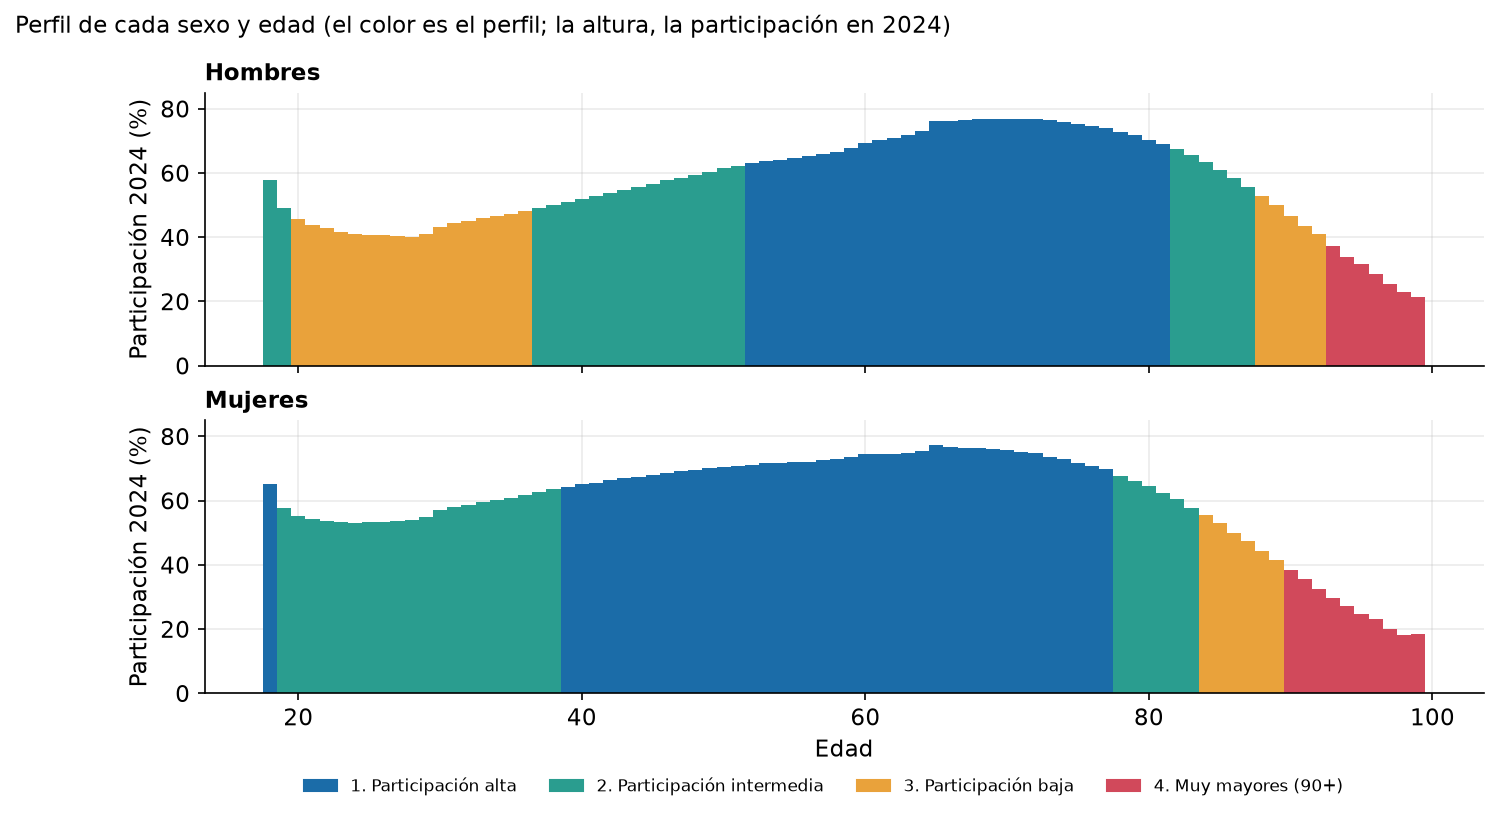
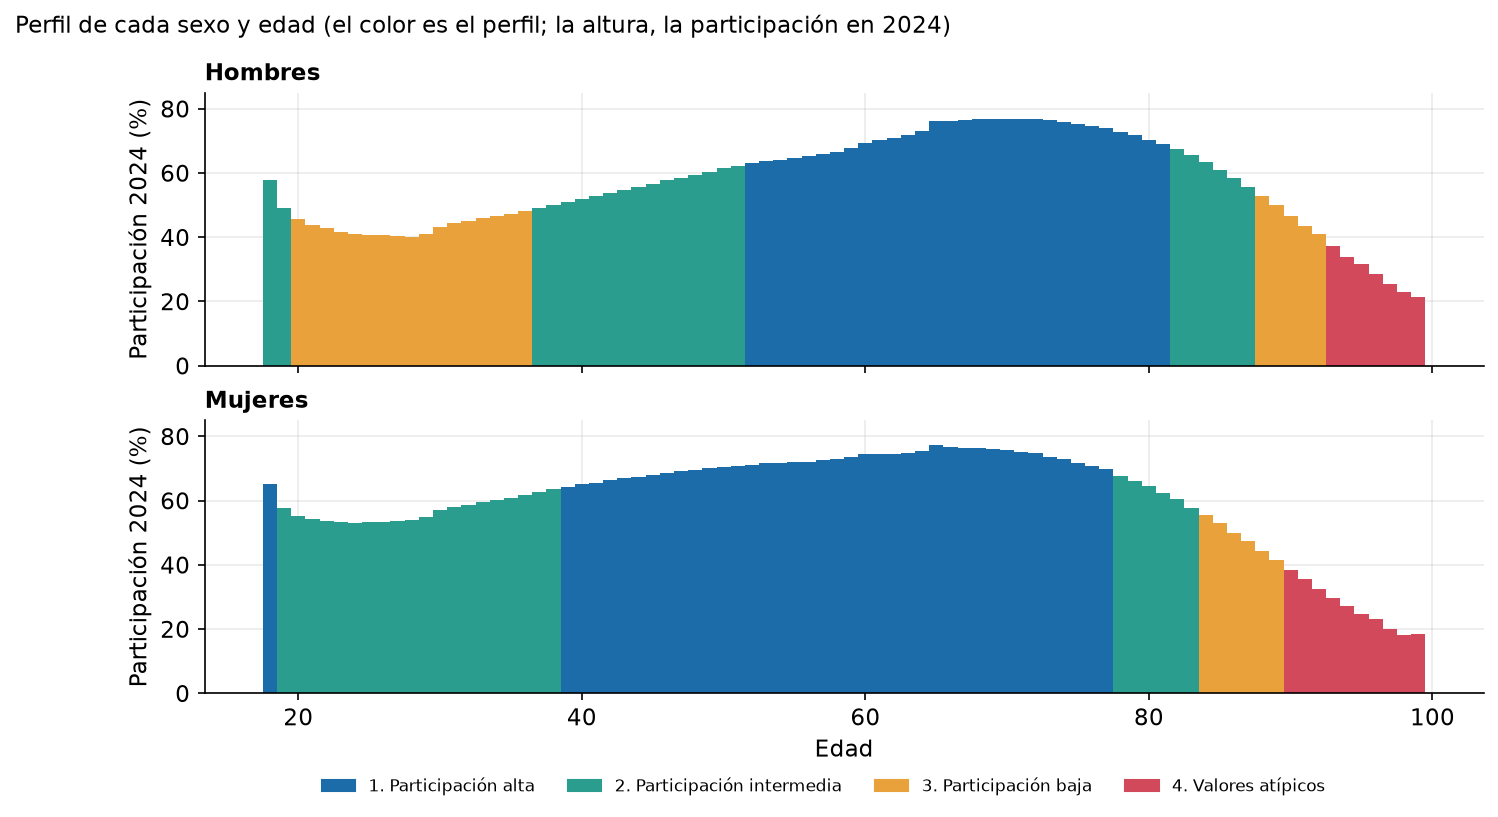
Renombra el perfil 4 como Valores atípicos en tablas, documentación y gráficas

Changed region(s): [[0.1842, 0.9486, 0.8905, 0.9792]]

diff --git a/scripts/20_figuras_perfiles.py b/scripts/20_figuras_perfiles.py
@@ -1,35 +1,43 @@
 """Figuras y tablas de resultados para reports/perfiles_sexo_edad/ (perfiles por sexo × edad)."""
 import shutil
+import sys
 import numpy as np, pandas as pd
 import matplotlib.pyplot as plt
 from config import PROC, TABLAS, GRAFICAS, RAIZ, ANIOS
 from estilo import PAL, plt as _p
 OUT = RAIZ / "reports/perfiles_sexo_edad"; OUT.mkdir(parents=True, exist_ok=True)
-NOM = {1: "1. Participación alta", 2: "2. Participación intermedia", 3: "3. Participación baja", 4: "4. Muy mayores (90+)"}
+NOM = {1: "1. Participación alta", 2: "2. Participación intermedia", 3: "3. Participación baja", 4: "4. Valores atípicos"}
 COL = {1: PAL[0], 2: PAL[2], 3: PAL[3], 4: PAL[1]}
 def guardar(fig, n): fig.savefig(OUT / n, dpi=150, bbox_inches="tight", facecolor="white"); plt.close(fig)
 
-asig = pd.read_csv(TABLAS / "perfiles_edad_sexo_k4_asignacion.csv")
-orden = asig.groupby("perfil")["2024"].mean().sort_values(ascending=False).index.tolist()
-asig["perfil_n"] = asig.perfil.map({p: i + 1 for i, p in enumerate(orden)})
-d = pd.read_parquet(PROC / "conteos_seccion_sexo_edad.parquet", columns=["AELEC", "SEXO", "EDAD", "LN", "SV", "NV", "NS"])
-for c in ("LN", "SV", "NV", "NS"): d[c] = d[c].astype("int64")
-nsel = d[(d.SEXO != 2) & d.EDAD.between(18, 99)].groupby("AELEC")[["NS", "LN"]].sum(); nsel = 100 * nsel.NS / nsel.LN
-d = d[(d.SEXO != 2) & d.EDAD.between(18, 99)].merge(asig[["SEXO", "EDAD", "perfil_n"]], on=["SEXO", "EDAD"])
-t = d.groupby(["perfil_n", "AELEC"])[["SV", "NV", "LN"]].sum()
-tray = (100 * t.SV / (t.SV + t.NV)).unstack("AELEC")[ANIOS].round(1)
-tam = (100 * d[d.AELEC == 2024].groupby("perfil_n").LN.sum() / d[d.AELEC == 2024].LN.sum()).round(1)
-tray["pct_lista_2024"] = tam; tray.to_csv(OUT / "trayectorias_perfiles.csv")
-# rangos de edad por perfil y sexo
-filas = []
-for p in range(1, 5):
-    for sx, ns in ((0, "hombres"), (1, "mujeres")):
-        e = sorted(asig[(asig.perfil_n == p) & (asig.SEXO == sx)].EDAD)
-        rg = ", ".join(f"{x[0]}-{x[-1]}" if x[0] != x[-1] else f"{x[0]}" for x in np.split(np.array(e), np.where(np.diff(e) > 1)[0] + 1)) if e else "-"
-        filas.append(dict(perfil=NOM[p], sexo=ns, edades=rg))
-pd.DataFrame(filas).to_csv(OUT / "composicion_perfiles.csv", index=False)
-asig.rename(columns={"perfil_n": "perfil_numero"}).drop(columns="perfil").to_csv(OUT / "asignacion_segmentos_sexo_edad.csv", index=False)
-print(tray); print(pd.DataFrame(filas).to_string(index=False)); print(nsel.round(2).to_dict())
+solo_perfiles = "--solo-perfiles" in sys.argv
+if solo_perfiles:
+    # Redibujar las figuras con las tablas publicadas, sin requerir el parquet local.
+    asig = pd.read_csv(OUT / "asignacion_segmentos_sexo_edad.csv").rename(columns={"perfil_numero": "perfil_n"})
+    tray = pd.read_csv(OUT / "trayectorias_perfiles.csv", index_col="perfil_n")
+    tray.columns = [int(c) if c.isdigit() else c for c in tray.columns]
+else:
+    asig = pd.read_csv(TABLAS / "perfiles_edad_sexo_k4_asignacion.csv")
+    orden = asig.groupby("perfil")["2024"].mean().sort_values(ascending=False).index.tolist()
+    asig["perfil_n"] = asig.perfil.map({p: i + 1 for i, p in enumerate(orden)})
+    d = pd.read_parquet(PROC / "conteos_seccion_sexo_edad.parquet", columns=["AELEC", "SEXO", "EDAD", "LN", "SV", "NV", "NS"])
+    for c in ("LN", "SV", "NV", "NS"): d[c] = d[c].astype("int64")
+    nsel = d[(d.SEXO != 2) & d.EDAD.between(18, 99)].groupby("AELEC")[["NS", "LN"]].sum(); nsel = 100 * nsel.NS / nsel.LN
+    d = d[(d.SEXO != 2) & d.EDAD.between(18, 99)].merge(asig[["SEXO", "EDAD", "perfil_n"]], on=["SEXO", "EDAD"])
+    t = d.groupby(["perfil_n", "AELEC"])[["SV", "NV", "LN"]].sum()
+    tray = (100 * t.SV / (t.SV + t.NV)).unstack("AELEC")[ANIOS].round(1)
+    tam = (100 * d[d.AELEC == 2024].groupby("perfil_n").LN.sum() / d[d.AELEC == 2024].LN.sum()).round(1)
+    tray["pct_lista_2024"] = tam; tray.to_csv(OUT / "trayectorias_perfiles.csv")
+    # rangos de edad por perfil y sexo
+    filas = []
+    for p in range(1, 5):
+        for sx, ns in ((0, "hombres"), (1, "mujeres")):
+            e = sorted(asig[(asig.perfil_n == p) & (asig.SEXO == sx)].EDAD)
+            rg = ", ".join(f"{x[0]}-{x[-1]}" if x[0] != x[-1] else f"{x[0]}" for x in np.split(np.array(e), np.where(np.diff(e) > 1)[0] + 1)) if e else "-"
+            filas.append(dict(perfil=NOM[p], sexo=ns, edades=rg))
+    pd.DataFrame(filas).to_csv(OUT / "composicion_perfiles.csv", index=False)
+    asig.rename(columns={"perfil_n": "perfil_numero"}).drop(columns="perfil").to_csv(OUT / "asignacion_segmentos_sexo_edad.csv", index=False)
+    print(tray); print(pd.DataFrame(filas).to_string(index=False)); print(nsel.round(2).to_dict())
 
 # Fig 1: quiénes son (bandas por edad) + participación 2024
 fig, ax = plt.subplots(2, 1, figsize=(11, 5.2), sharex=True)
@@ -49,6 +57,9 @@ for y in (2012, 2018, 2024): ax.axvspan(y - .6, y + .6, color="#999", alpha=.12)
 ax.set_xticks(ANIOS); ax.set_ylabel("Participación entre especificados (%)"); ax.legend(fontsize=8)
 ax.set_title("Trayectoria de cada perfil, 2009–2024 (sombreado: elecciones presidenciales)")
 guardar(fig, "fig2_trayectorias.png")
+if solo_perfiles:
+    raise SystemExit(0)
+
 # Fig 3: ajuste por lugar
 c = pd.read_csv(TABLAS / "perfiles_region_tipo_comparacion.csv"); c = c[c.corte.isin(["region", "tipo"])]
 orden_g = ["norte", "centro", "sur", "urbana", "mixta", "rural"]; c = c.set_index("grupo").loc[orden_g]

diff --git a/README.md b/README.md
@@ -35,7 +35,7 @@ La etapa de exploración ya cuenta con una segmentación sociodemográfica y res
 
 ## Perfiles por sexo y edad (propuesta actual)
 
-Propuesta de cuatro perfiles nacionales de participación (alta, intermedia, baja y muy mayores) definidos por sexo y edad simple, con un ajuste por región y tipo de sección. Explicación completa, figuras, tratamiento de los no especificados y de las personas no binarias, robustez y límites en [reports/perfiles_sexo_edad/](reports/perfiles_sexo_edad/README.md).
+Propuesta de cuatro perfiles nacionales de participación (alta, intermedia, baja y valores atípicos) definidos por sexo y edad simple, con un ajuste por región y tipo de sección. Explicación completa, figuras, tratamiento de los no especificados y de las personas no binarias, robustez y límites en [reports/perfiles_sexo_edad/](reports/perfiles_sexo_edad/README.md).
 
 ## Resultados de la segmentación sociodemográfica
 
